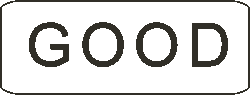
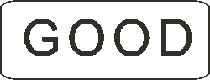
Use Smaller Stage Clear Image

diff --git a/src/gamestates/stageclear.c b/src/gamestates/stageclear.c
@@ -36,14 +36,6 @@ void StageClear()
 	if ((currButtons & kButtonB) && !(prevButtons & kButtonB))
 		KaderVisible = !KaderVisible;
 	
-	/*SDL_Rect aDstRect;
-	aDstRect.x = XOffsetGame-4;
-	aDstRect.y = YOffsetGame + 75;
-	aDstRect.w = StageClearKader->w;
-	aDstRect.h = StageClearKader->h;
-	SDL_BlitSurface(RoomBackground,NULL,Screen,NULL);
-	*/
-
 	pd->graphics->clear(kColorBlack);
 	pd->graphics->setBackgroundColor(kColorBlack);
 	pd->graphics->setClipRect(0, 0, WINDOW_WIDTH, WINDOW_HEIGHT);
@@ -52,8 +44,11 @@ void StageClear()
 	DrawPanel();
 	DrawPlayField();
 	if (KaderVisible)
-		pd->graphics->drawBitmap(StageClearKader, XOffsetGame - 4, YOffsetGame + 75, kBitmapUnflipped);
-	//	SDL_BlitSurface(StageClearKader,NULL,Screen,&aDstRect);
+	{
+		int w;
+		pd->graphics->getBitmapData(StageClearKader, &w, NULL, NULL, NULL, NULL);
+		pd->graphics->drawBitmap(StageClearKader, (WINDOW_WIDTH - w)>>1, YOffsetGame + 75, kBitmapUnflipped);
+	}
 
 	if(GameState != GSStageClear)
 		StageClearDeInit();
